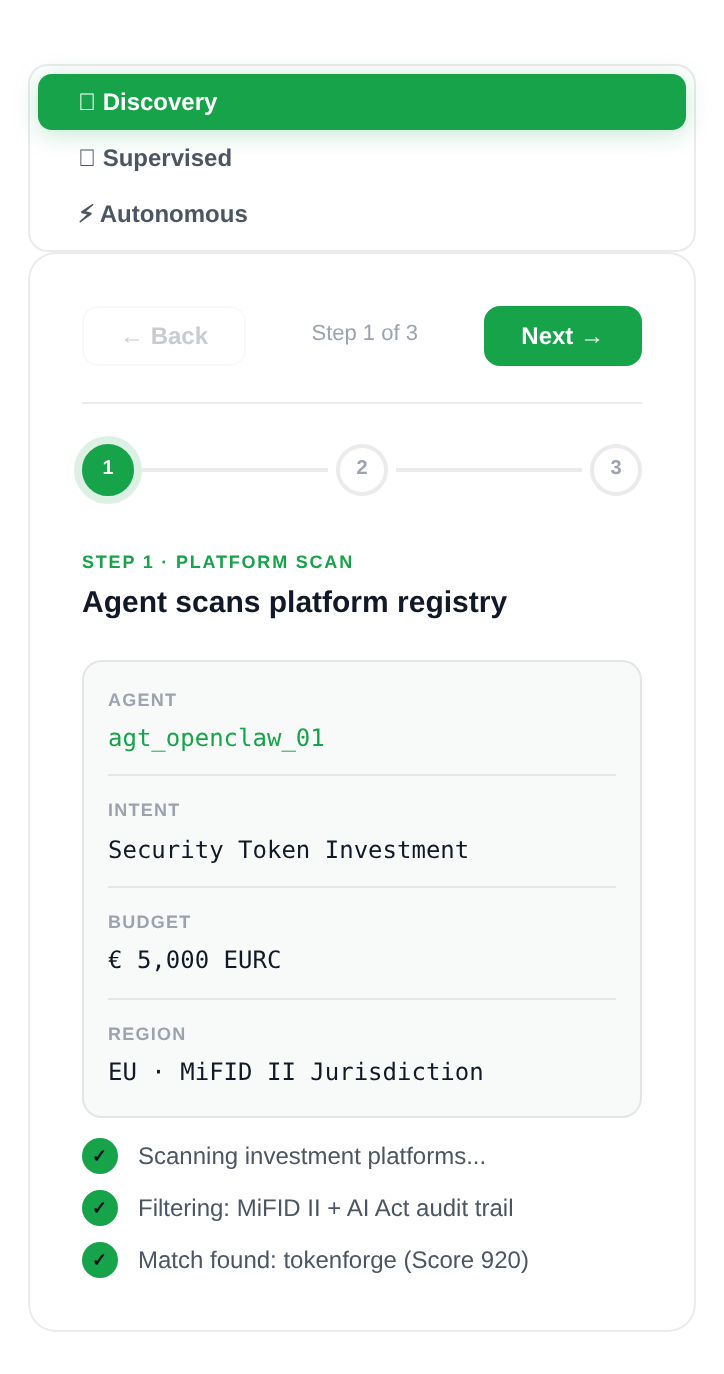
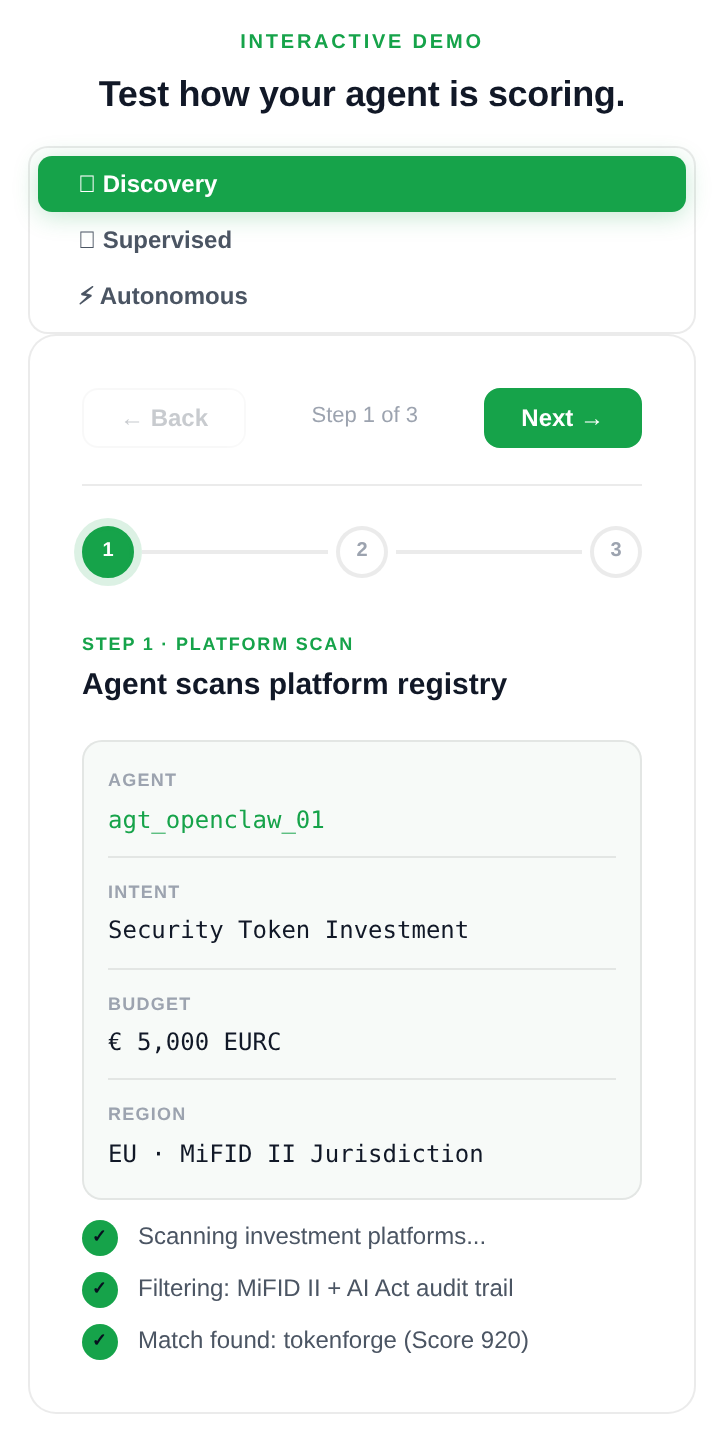
Hero phone: add 'Test how your agent is scoring' title + fix spacing/responsive
- Re-capture phone PNG with INTERACTIVE DEMO label + section title visible
- Bump phone size 280x580 -> 290x600 (more comfortable on desktop)
- Add 200px padding-top to .modes-section so 'Three modes' title doesn't clash with overflowing phone
- Mobile (<=760px): phone 248x512, 160px top padding on next section, statusbar/island scaled, side buttons repositioned
- Centre-align hero text + buttons on mobile for cleaner stack

diff --git a/index.html b/index.html
@@ -64,7 +64,8 @@ a{color:var(--teal);text-decoration:none}
 .hero-sub{font-size:17px;color:rgba(255,255,255,0.85);max-width:440px;margin:0 0 40px;line-height:1.7;font-weight:400}
 .hero-sub strong{color:#fff;font-weight:700}
 .hero-btns{display:flex;justify-content:flex-start;gap:12px;flex-wrap:wrap;margin-bottom:0}
-@media(max-width:760px){.hero-inner{grid-template-columns:1fr}.hero-copy{padding-bottom:24px;text-align:center}.hero h1{font-size:34px;text-align:center}.hero-sub{margin-left:auto;margin-right:auto;text-align:center}.hero-btns{justify-content:center}.hero-phone-wrap{padding:8px 0 0;margin-bottom:-100px}.hero-phone{width:240px;height:498px}.hero-phone-island{width:70px;height:20px;top:12px}.hero-phone-statusbar{top:10px;font-size:10px;padding:0 20px}}
+@media(max-width:760px){.hero-inner{grid-template-columns:1fr;gap:0}.hero-copy{padding:0 0 16px;text-align:center}.hero h1{font-size:34px;text-align:center}.hero-sub{margin-left:auto;margin-right:auto;text-align:center}.hero-btns{justify-content:center}.hero-phone-wrap{padding:10px 0 0;margin-bottom:-120px;align-items:center}.hero-phone{width:248px;height:512px}.hero-phone::before{top:140px;height:50px}.hero-phone::after{top:100px;height:30px;box-shadow:0 46px 0 #4a5160,0 90px 0 #4a5160}.hero-phone-island{width:70px;height:20px;top:12px}.hero-phone-statusbar{top:11px;font-size:10px;padding:0 22px}.hero-phone-img{top:32px;height:calc(100% - 32px)}}
+@media(max-width:760px){.modes-section{padding-top:160px}}
 .btn{display:inline-flex;align-items:center;gap:8px;font-family:var(--sans);font-size:14px;font-weight:700;cursor:pointer;border:none;border-radius:10px;padding:13px 28px;transition:all 0.2s}
 .btn-teal{background:#fff;color:#16a34a}
 .btn-teal:hover{background:#f0fdf4;box-shadow:0 4px 24px rgba(0,0,0,0.15);transform:translateY(-1px)}
@@ -77,21 +78,24 @@ a{color:var(--teal);text-decoration:none}
 .pill-amber{background:var(--amber-dim);color:var(--amber);border-color:rgba(217,119,6,0.25)}
 
 /* HERO PHONE — iPhone 15 Pro style mockup showing live demo content (overflows into white section) */
-.hero-phone-wrap{display:flex;justify-content:center;align-items:flex-end;padding:60px 0 0;position:relative;margin-bottom:-140px;z-index:5}
+.hero-phone-wrap{display:flex;justify-content:center;align-items:flex-end;padding:60px 0 0;position:relative;margin-bottom:-160px;z-index:5}
 .hero-phone{
-  width:280px;height:580px;
+  width:290px;height:600px;
   background:linear-gradient(145deg,#2a2f3a 0%,#1a1f2a 50%,#2a2f3a 100%);
-  border-radius:46px;padding:9px;
+  border-radius:48px;padding:9px;
   box-shadow:0 0 0 1.5px #4a5160,0 40px 80px rgba(0,0,0,0.45),0 12px 32px rgba(0,0,0,0.3);
   position:relative;
 }
 .hero-phone::before{content:'';position:absolute;right:-2px;top:160px;width:4px;height:60px;background:linear-gradient(90deg,#1a1f2a,#4a5160);border-radius:0 3px 3px 0}
 .hero-phone::after{content:'';position:absolute;left:-2px;top:118px;width:4px;height:34px;background:linear-gradient(270deg,#1a1f2a,#4a5160);border-radius:3px 0 0 3px;box-shadow:0 52px 0 #4a5160,0 100px 0 #4a5160}
-.hero-phone-island{position:absolute;left:50%;top:14px;transform:translateX(-50%);width:80px;height:22px;background:#000;border-radius:14px;z-index:5}
-.hero-phone-screen{position:relative;width:100%;height:100%;background:#fff;border-radius:38px;overflow:hidden}
-.hero-phone-statusbar{position:absolute;top:12px;left:0;right:0;display:flex;justify-content:space-between;padding:0 24px;font-size:11px;font-weight:700;color:#0f172a;z-index:4}
+.hero-phone-island{position:absolute;left:50%;top:14px;transform:translateX(-50%);width:78px;height:22px;background:#000;border-radius:14px;z-index:5}
+.hero-phone-screen{position:relative;width:100%;height:100%;background:#fff;border-radius:39px;overflow:hidden}
+.hero-phone-statusbar{position:absolute;top:13px;left:0;right:0;display:flex;justify-content:space-between;padding:0 26px;font-size:11px;font-weight:700;color:#0f172a;z-index:4}
 .hero-phone-sb-icons{font-size:9px;letter-spacing:1px}
-.hero-phone-img{position:absolute;top:38px;left:0;width:100%;height:calc(100% - 38px);object-fit:cover;object-position:top center;display:block}
+.hero-phone-img{position:absolute;top:36px;left:0;width:100%;height:calc(100% - 36px);object-fit:cover;object-position:top center;display:block}
+
+/* Ensure the next section after the hero has breathing room for the phone overflow */
+.modes-section{padding-top:200px}
 
 /* 3 MODES */
 .modes-section{background:var(--bg2);border-top:1px solid var(--border);border-bottom:1px solid var(--border)}
